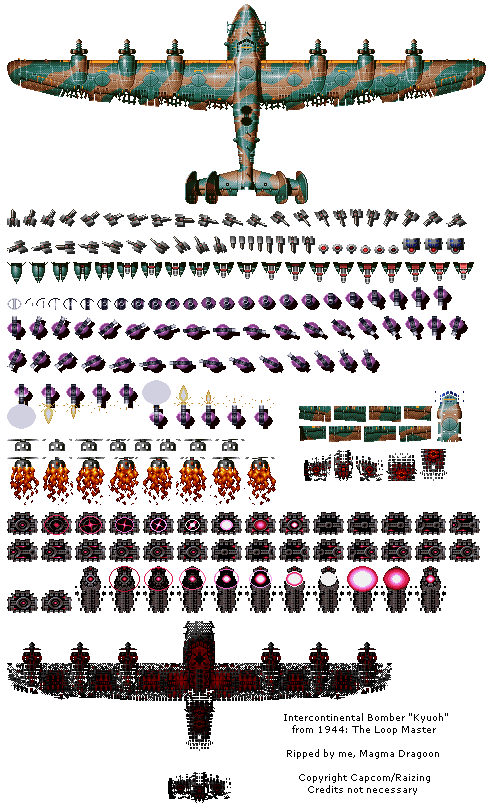
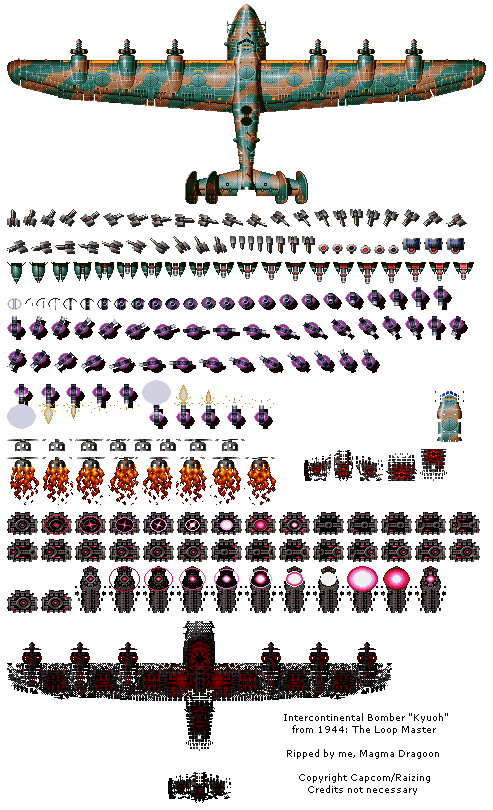
몸체 텍스쳐 변경

diff --git a/Space/FinalBoss.cpp b/Space/FinalBoss.cpp
@@ -11,6 +11,11 @@ FinalBoss::FinalBoss()
 	m_RWingCol = Sprite::Create(L"Painting/Object/Enemy/FinalBoss/WingCol.png");
 	m_TailWingCol = Sprite::Create(L"Painting/Object/Enemy/FinalBoss/TailWingCol.png");
 
+	m_BodyCol->m_Visible = false;
+	m_LWingCol->m_Visible = false;
+	m_RWingCol->m_Visible = false;
+	m_TailWingCol->m_Visible = false;
+
 	ObjMgr->AddObject(m_BodyCol, "BossCol");
 	ObjMgr->AddObject(m_LWingCol, "BossCol");
 	ObjMgr->AddObject(m_RWingCol, "BossCol");
@@ -27,8 +32,18 @@ void FinalBoss::CollisionCheak()
 {
 }
 
+void FinalBoss::Collision()
+{
+	m_Body->B = 0;
+	m_Body->G = 0;
+}
+
 void FinalBoss::Update(float deltatime, float Time)
 {
+	if(m_Body->B < 255)
+		m_Body->B += 17;
+	if (m_Body->G < 255)
+		m_Body->G += 17;
 	SetObjectsPosition();
 
 	ObjMgr->CollisionCheak(this,"Bullet");
@@ -50,6 +65,7 @@ void FinalBoss::OnCollision(Object* other)
 			float randy = (rand() % (int)m_BodyCol->m_Size.y) + m_BodyCol->m_Position.y - m_BodyCol->m_Size.y / 2;
 			m_HP -= other->m_Atk;
 			ObjMgr->AddObject(new EffectMgr(L"Painting/Object/Effect/Explosion/", 1, 9, 5, Vec2(randx, randy)), "Effect");
+			Collision();
 			other->SetDestroy(true);
 		}
 		if (IntersectRect(&rc, &m_LWingCol->m_Collision, &other->m_Collision))
@@ -58,6 +74,7 @@ void FinalBoss::OnCollision(Object* other)
 			float randy = (rand() % (int)m_LWingCol->m_Size.y) + m_LWingCol->m_Position.y - m_LWingCol->m_Size.y / 2;
 			m_HP -= other->m_Atk;
 			ObjMgr->AddObject(new EffectMgr(L"Painting/Object/Effect/Explosion/", 1, 9, 5, Vec2(randx, randy)), "Effect");
+			Collision();
 			other->SetDestroy(true);
 		}
 		if (IntersectRect(&rc, &m_RWingCol->m_Collision, &other->m_Collision))
@@ -66,6 +83,7 @@ void FinalBoss::OnCollision(Object* other)
 			float randy = (rand() % (int)m_RWingCol->m_Size.y) + m_RWingCol->m_Position.y - m_RWingCol->m_Size.y / 2;
 			m_HP -= other->m_Atk;
 			ObjMgr->AddObject(new EffectMgr(L"Painting/Object/Effect/Explosion/", 1, 9, 5, Vec2(randx, randy)), "Effect");
+			Collision();
 			other->SetDestroy(true);
 		}
 		if (IntersectRect(&rc, &m_TailWingCol->m_Collision, &other->m_Collision))
@@ -74,6 +92,7 @@ void FinalBoss::OnCollision(Object* other)
 			float randy = (rand() % (int)m_TailWingCol->m_Size.y) + m_TailWingCol->m_Position.y - m_TailWingCol->m_Size.y / 2;
 			m_HP -= other->m_Atk;
 			ObjMgr->AddObject(new EffectMgr(L"Painting/Object/Effect/Explosion/", 1, 9, 5, Vec2(randx, randy)), "Effect");
+			Collision();
 			other->SetDestroy(true);
 		}
 
@@ -83,6 +102,7 @@ void FinalBoss::OnCollision(Object* other)
 			float randy = (rand() % (int)m_TailWingCol->m_Size.y) + m_TailWingCol->m_Position.y - m_TailWingCol->m_Size.y / 2;
 			m_HP -= other->m_Atk;
 			ObjMgr->AddObject(new EffectMgr(L"Painting/Object/Effect/Explosion/", 1, 9, 5, Vec2(randx, randy)), "Effect");
+			Collision();
 			other->SetDestroy(true);
 		}
 	}

diff --git a/Space/FinalBoss.h b/Space/FinalBoss.h
@@ -12,6 +12,7 @@ public:
 	~FinalBoss();
 
 	void CollisionCheak();
+	void Collision();
 
 	void Update(float deltatime,float Time);
 	void Render();
